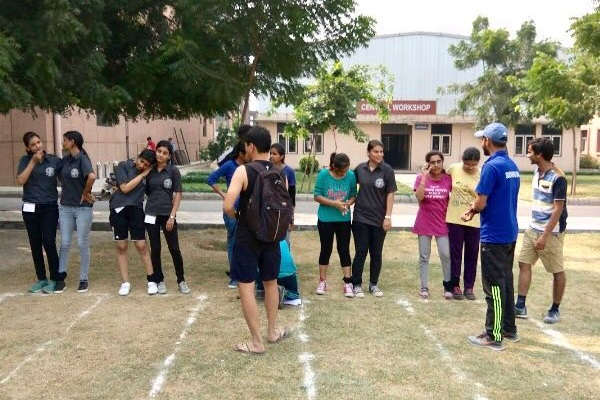
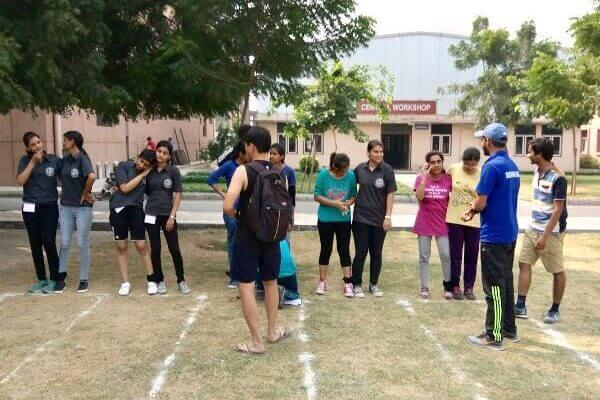
optimize images

diff --git a/index.html b/index.html
@@ -52,8 +52,9 @@
     </script>    
 </head>
 <body>
-<div id="main-wrapper">
 <div class="loader"></div>
+
+<div id="main-wrapper">
 <div class="uc-mobile-menu-pusher">
 
 <div class="content-wrapper">
@@ -96,7 +97,11 @@
     <!-- Wrapper for slides -->
     <div class="carousel-inner" role="listbox">
         <div class="item active">
-            <img src="img/hero-slide-2.jpg" alt="...">
+			<picture style="max-width: 100%">
+			  <source srcset="img/hero-slide-2.webp" type="image/webp">
+			  <source srcset="img/hero-slide-2.jpg" type="image/jpeg"> 
+			  <img src="img/hero-slide-2.jpg" alt="JSS Ground" style="max-width: 100%">
+			</picture>
 
             <div class="carousel-caption">
                 <h1>7th Annual Sports Meet 2017</h1>
@@ -621,7 +626,6 @@
 
 
 <!-- Script -->
-<script src="js/jquery-2.1.4.min.js"></script>
 <script src="https://maxcdn.bootstrapcdn.com/bootstrap/3.3.6/js/bootstrap.min.js"
         integrity="sha384-0mSbJDEHialfmuBBQP6A4Qrprq5OVfW37PRR3j5ELqxss1yVqOtnepnHVP9aJ7xS"
         crossorigin="anonymous"></script>
